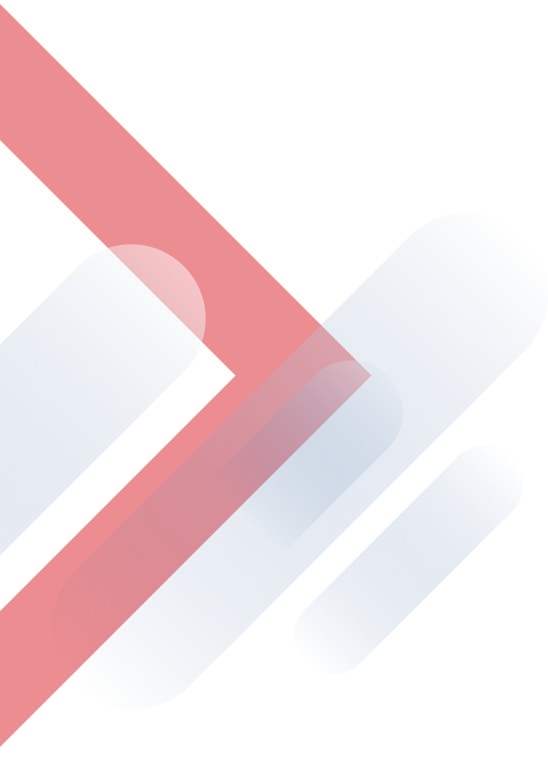
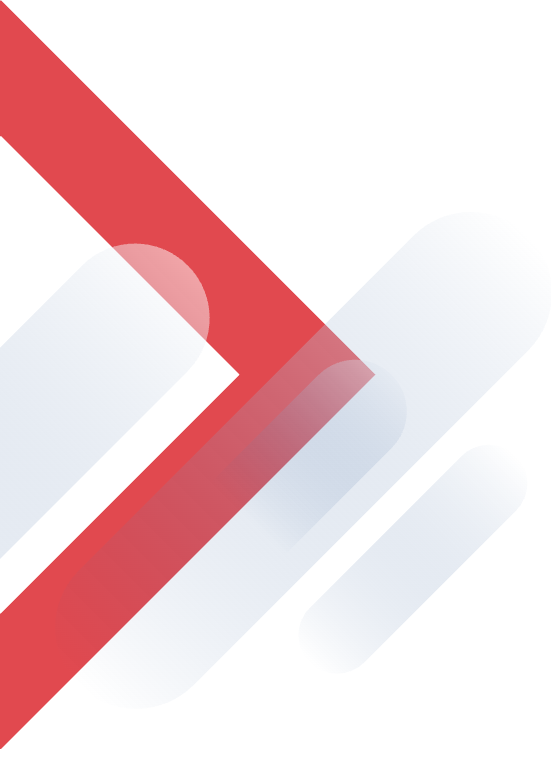
fix: Remove redundant AOS attribute from decorative rectangles in the about page

diff --git a/wp-content/themes/colina/page-nosotros.php b/wp-content/themes/colina/page-nosotros.php
@@ -164,7 +164,7 @@
             <?php if ($faq_subtitle): ?><h2 data-aos="fade-up" data-aos-delay="400"><?php echo esc_html($faq_subtitle); ?></h2><?php endif; ?>
         </div>
         <div class="items" data-aos="fade-up" data-aos-delay="500">
-            <div class="decorative-rectangles items-rectangles" data-aos="fade-right" data-aos-delay="100" data-aos-anchor-placement="top-bottom">
+            <div class="decorative-rectangles items-rectangles" data-aos-delay="100" data-aos-anchor-placement="top-bottom">
                 <div class="rectangle rect-1" data-aos="zoom-in" data-aos-delay="200" data-aos-anchor-placement="top-bottom"></div>
                 <div class="rectangle rect-2" data-aos="zoom-in" data-aos-delay="300" data-aos-anchor-placement="top-bottom"></div>
                 <div class="rectangle rect-3" data-aos="zoom-in" data-aos-delay="400" data-aos-anchor-placement="top-bottom"></div>
